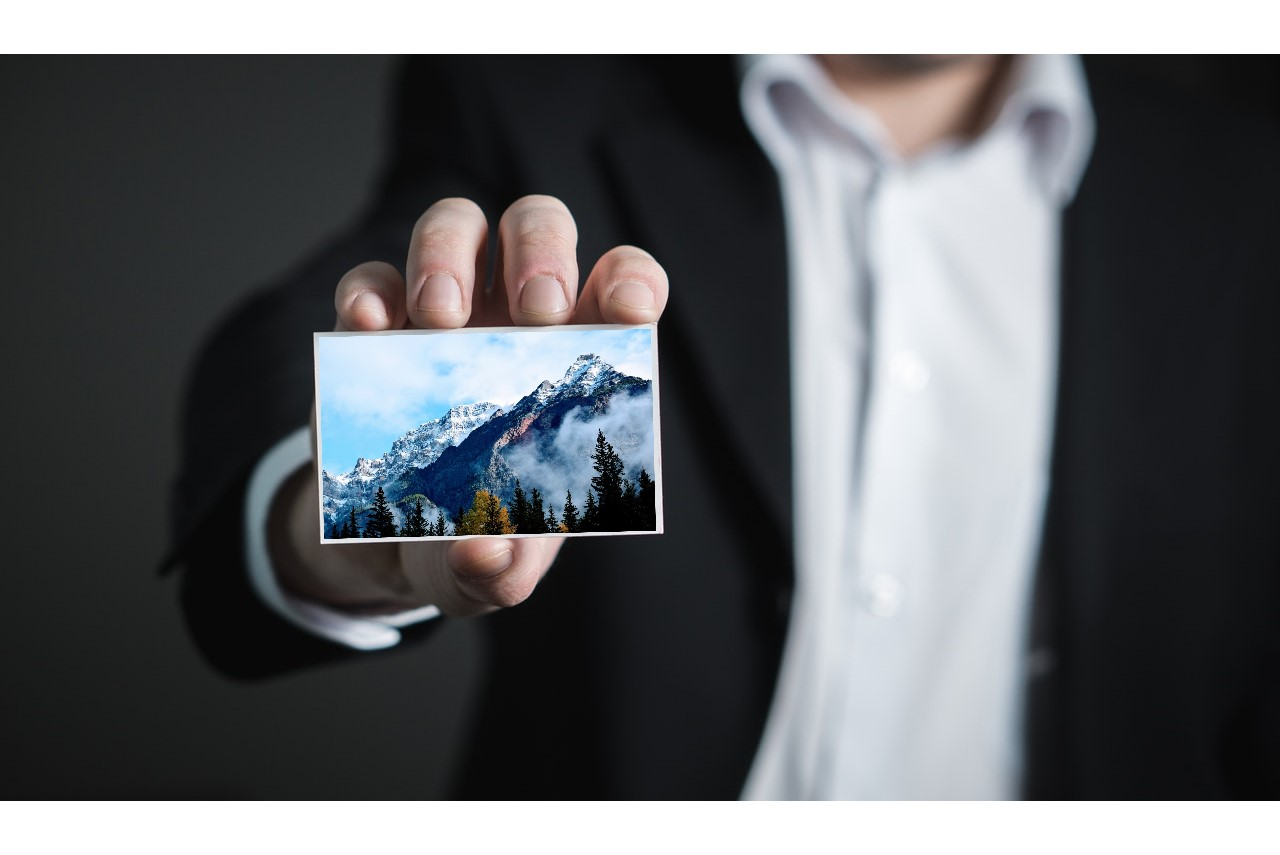
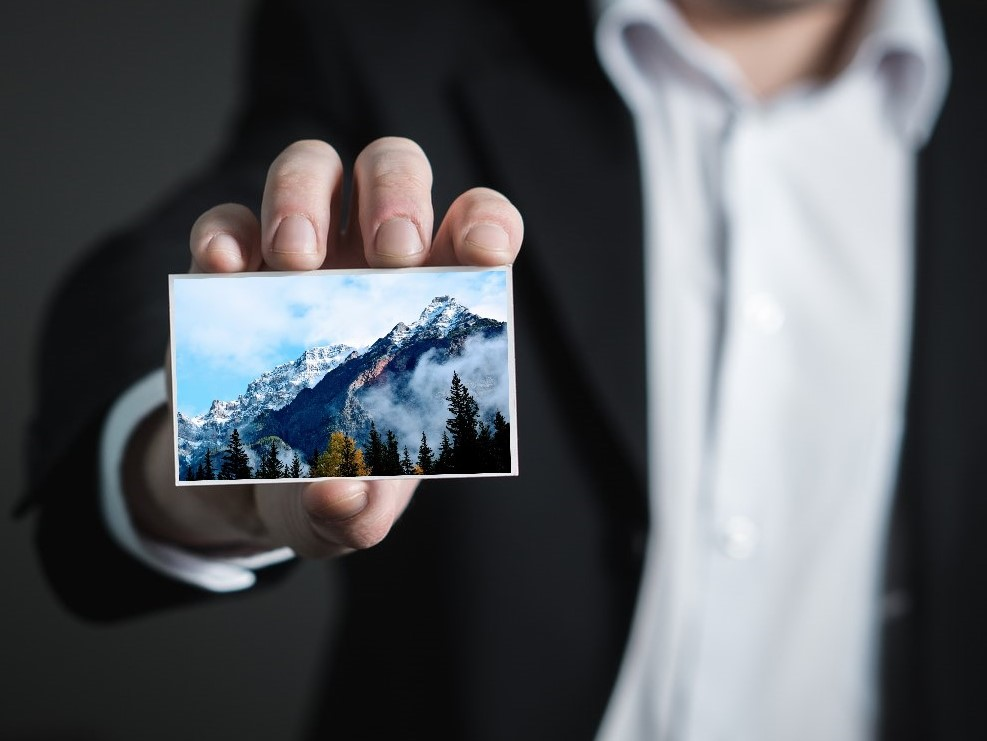
add new component

diff --git a/src/app/photo-full-size/photo-full-size.component.spec.ts b/src/app/photo-full-size/photo-full-size.component.spec.ts
@@ -1,0 +1,25 @@
+import { async, ComponentFixture, TestBed } from '@angular/core/testing';
+
+import { PhotoFullSizeComponent } from './photo-full-size.component';
+
+describe('PhotoFullSizeComponent', () => {
+  let component: PhotoFullSizeComponent;
+  let fixture: ComponentFixture<PhotoFullSizeComponent>;
+
+  beforeEach(async(() => {
+    TestBed.configureTestingModule({
+      declarations: [ PhotoFullSizeComponent ]
+    })
+    .compileComponents();
+  }));
+
+  beforeEach(() => {
+    fixture = TestBed.createComponent(PhotoFullSizeComponent);
+    component = fixture.componentInstance;
+    fixture.detectChanges();
+  });
+
+  it('should create', () => {
+    expect(component).toBeTruthy();
+  });
+});

diff --git a/src/app/app.module.ts b/src/app/app.module.ts
@@ -11,6 +11,7 @@ import { ServicePageComponent } from './service-page/service-page.component';
 import { NavbarComponent } from './navbar/navbar.component';
 import { FooterComponent } from './footer/footer.component';
 import { ReactiveFormsModule } from '@angular/forms';
+import { PhotoFullSizeComponent } from './photo-full-size/photo-full-size.component';
 
 @NgModule({
   declarations: [
@@ -21,7 +22,8 @@ import { ReactiveFormsModule } from '@angular/forms';
     GalleryPageComponent,
     ServicePageComponent,
     NavbarComponent,
-    FooterComponent
+    FooterComponent,
+    PhotoFullSizeComponent
   ],
   imports: [
     BrowserModule,

diff --git a/src/app/pictures.ts b/src/app/pictures.ts
@@ -2,21 +2,21 @@ export const pictures:any = [];
 
 pictures.push(
 	//example for nature
-	{pic:"../../assets/img/img-name.jpg",
+	{pic:"../../assets/img/mountain1.jpg",
 	takenDate:"2018-02-16",
 	location:"Austria/Voralberg",
 	tags:"mountains/snow/forest",
 	cat:"nature"},
 
 	//example for people
-	{pic:"../../assets/img/img-name.jpg",
+	{pic:"../../assets/img/baby1.jpg",
 	takenDate:"2015-03-22",
 	location:"",
 	tags:"",
 	cat:"portrait"},
 
 	//example for city
-	{pic:"../../assets/img/img-name.jpg",
+	{pic:"../../assets/img/city1.jpg",
 	takenDate:"2017-07-07",
 	location:"",
 	tags:"",

diff --git a/src/app/photo-full-size/photo-full-size.component.ts b/src/app/photo-full-size/photo-full-size.component.ts
@@ -1,0 +1,15 @@
+import { Component, OnInit } from '@angular/core';
+
+@Component({
+  selector: 'app-photo-full-size',
+  templateUrl: './photo-full-size.component.html',
+  styleUrls: ['./photo-full-size.component.css']
+})
+export class PhotoFullSizeComponent implements OnInit {
+
+  constructor() { }
+
+  ngOnInit(): void {
+  }
+
+}

diff --git a/src/app/photo-full-size/photo-full-size.component.html b/src/app/photo-full-size/photo-full-size.component.html
@@ -1,0 +1,1 @@
+<p>photo-full-size works!</p>
